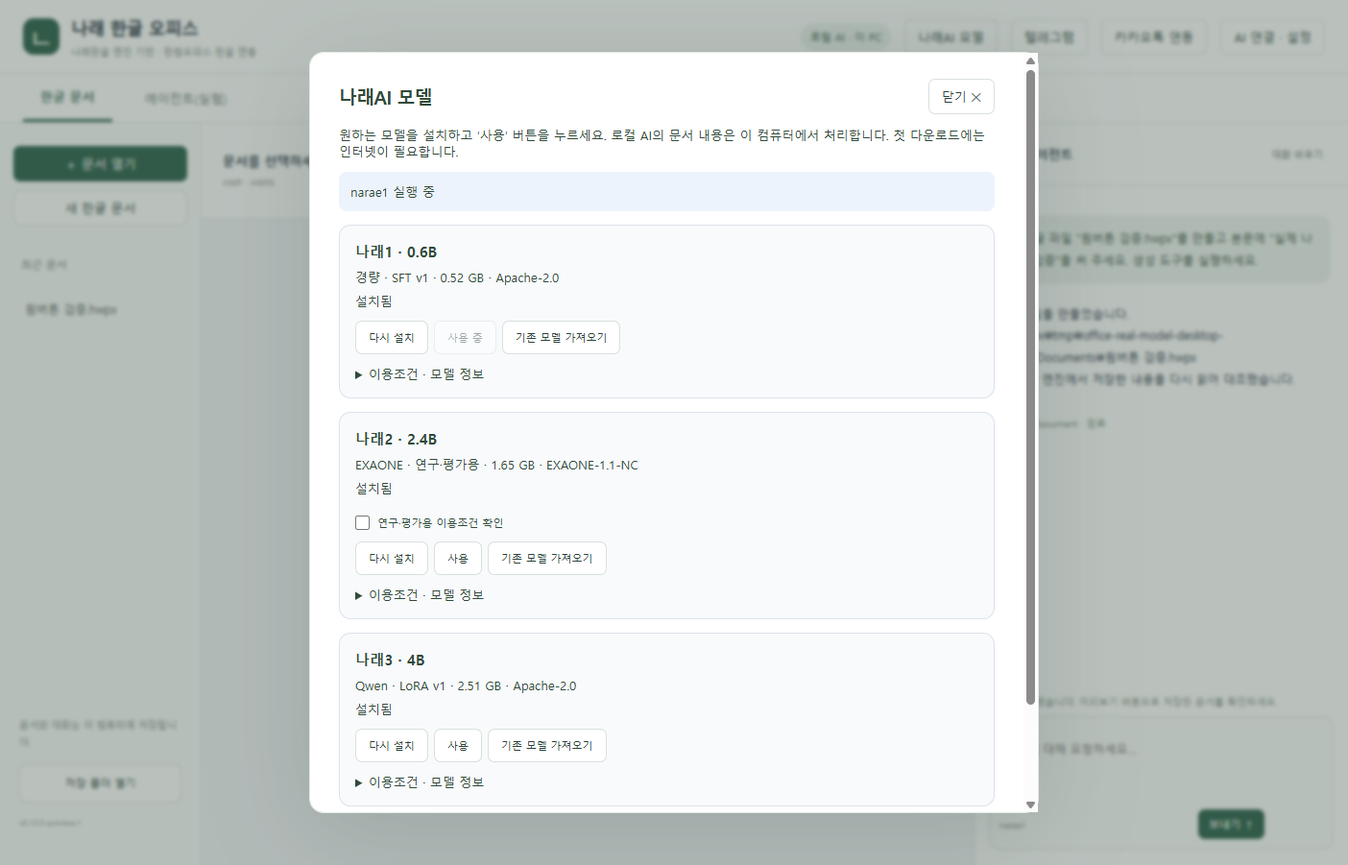
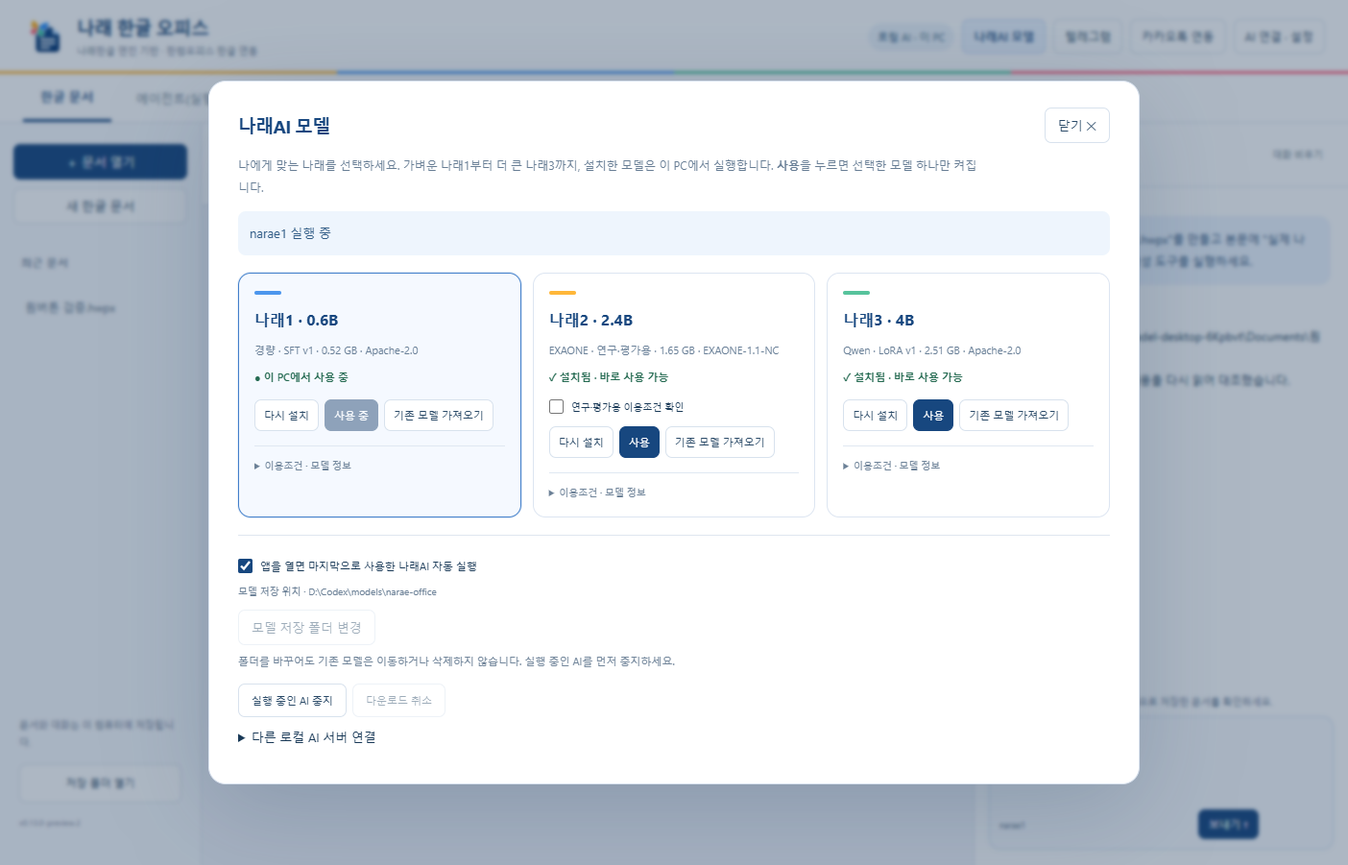
feat: apply Narae branding and persist local AI activation

diff --git a/ui/index.html b/ui/index.html
@@ -1,12 +1,12 @@
 <!doctype html>
 <html lang="ko"><head><meta charset="utf-8"><meta name="viewport" content="width=device-width,initial-scale=1"><meta http-equiv="Content-Security-Policy" content="default-src 'self'; img-src 'self' data:; style-src 'self'; script-src 'self'; connect-src 'none'; object-src 'none'; base-uri 'none'; form-action 'none'"><title>나래 한글 오피스</title><link rel="stylesheet" href="app.css"><link rel="stylesheet" href="local-ai.css"></head>
 <body>
-<header><div class="brand"><span class="logo">ㄴ</span><div><strong>나래 한글 오피스</strong><small>나래한글 엔진 기반 · 한컴오피스 한글 연동</small></div></div><div class="header-actions"><span id="connectionBadge" class="badge">로컬 작업 공간</span><button id="localAIButton">나래AI 모델</button><button id="telegramButton">텔레그램</button><button id="remoteButton">카카오톡 연동</button><button id="settingsButton">AI 연결 · 설정</button></div></header>
+<header><div class="brand"><img class="logo" src="assets/narae-office.png" alt="나래 한글 오피스 로고"><div><strong>나래 한글 오피스</strong><small>나래한글 엔진 기반 · 한컴오피스 한글 연동</small></div></div><div class="header-actions"><span id="connectionBadge" class="badge">로컬 작업 공간</span><button id="localAIButton">나래AI 모델</button><button id="telegramButton">텔레그램</button><button id="remoteButton">카카오톡 연동</button><button id="settingsButton">AI 연결 · 설정</button></div></header>
 <nav class="workspace-tabs" role="tablist" aria-label="작업 공간"><button id="documentTab" role="tab" aria-selected="true" aria-controls="documentWorkspace">한글 문서</button><button id="agentTab" role="tab" aria-selected="false" aria-controls="agentWorkspace" tabindex="-1">에이전트(실험)</button></nav>
 <main id="documentWorkspace" role="tabpanel" aria-labelledby="documentTab">
 <aside><button id="openFile" class="primary">＋ 문서 열기</button><button id="newDocument">새 한글 문서</button><h2>최근 문서</h2><div id="recent"></div><div class="aside-bottom"><span>문서와 대화는 이 컴퓨터에 저장됩니다.</span><button id="dataFolder">저장 폴더 열기</button><small id="version"></small></div></aside>
 <section class="document"><div class="document-toolbar"><div><strong id="documentName">문서를 선택하세요</strong><small id="documentPath">HWP · HWPX</small></div><div class="document-actions"><button id="nativeOpen" disabled>한글에서 열기</button><button id="readDocument" disabled>현재 내용</button><button id="refreshPreview" disabled>미리보기</button><button id="pdfExport" disabled>PDF 사본</button></div></div>
-<div id="documentView"><div class="welcome"><div class="welcome-mark">나래</div><h1>한글 문서 작업을 가볍게.</h1><p>기존 문서의 서식을 지키면서 내용을 다듬고,<br>나의 AI와 함께 새 문서를 작성하세요.</p><span>왼쪽의 문서 열기로 시작하세요.</span></div></div>
+<div id="documentView"><div class="welcome"><img class="welcome-mark" src="assets/narae-office.png" alt=""><span class="eyebrow">나의 문서, 나의 AI</span><h1>생각이 문서가 되는 공간.</h1><p>익숙한 한글 문서의 서식을 지키면서,<br>나래와 함께 읽고, 쓰고, 다듬으세요.</p><div class="welcome-actions"><button id="welcomeOpen"><span class="action-icon blue">↗</span><strong>문서 열기</strong><small>HWP · HWPX 이어서 작업</small></button><button id="welcomeNew"><span class="action-icon mint">＋</span><strong>새 문서</strong><small>빈 문서에서 시작하기</small></button><button id="welcomeModels"><span class="action-icon amber">✦</span><strong>나래AI</strong><small>이 PC에서 실행할 모델 선택</small></button></div><p class="welcome-note">문서와 대화는 이 컴퓨터에 보관합니다.</p></div></div>
 <div class="page-navigation" id="pageNavigation" hidden><button id="previousPage">이전</button><span id="pageNumber"></span><button id="nextPage">다음</button></div></section>
 <section class="chat"><div class="chat-header"><strong>문서 에이전트</strong><button id="clearHistory" class="text-button">대화 비우기</button></div><div id="messages"><div class="chat-intro"><span class="spark">✧</span><h2>어떻게 도와드릴까요?</h2><p>‘이 문서의 오탈자를 고쳐 줘’처럼<br>원하는 작업을 입력하세요.</p><small>AI 사용 시 선택한 문서 내용이 연결한 회사로 전송됩니다.</small></div></div><div id="status" role="status">준비됨</div><form id="chatForm"><textarea id="prompt" placeholder="문서에 대해 요청하세요…" rows="3" aria-label="AI 요청"></textarea><div class="composer-footer"><small id="activeModel">AI 연결 설정이 필요합니다</small><button id="stopButton" type="button" hidden>중지</button><button id="sendButton" type="submit" class="primary">보내기 ↑</button></div></form></section>
 </main>
@@ -20,6 +20,6 @@
 <label>모델<input id="model" list="modelOptions" autocomplete="off" placeholder="계정 모델을 불러오거나 모델 ID 입력"><datalist id="modelOptions"></datalist></label><button id="loadModels" type="button">모델 목록 새로고침</button><label class="check-label"><input id="autoSave" type="checkbox" checked>AI의 열린 한글 편집 후 자동 저장</label><p class="muted">계정 토큰과 API 키는 Windows 사용자 암호화 저장소에 보관합니다. 다른 PC에서는 계정을 다시 연결하세요.</p><div id="settingsStatus" role="status"></div><button type="submit" class="primary save-settings">설정 저장</button></form></dialog>
 <dialog id="createDialog"><form id="createForm"><div class="dialog-header"><h2>새 한글 문서</h2><button id="closeCreate" type="button" class="text-button">닫기 ✕</button></div><label>파일 이름<input id="newName" value="새 문서.hwpx" required></label><label>내용<textarea id="newText" rows="10" placeholder="작성할 내용을 입력하세요"></textarea></label><p class="muted">현재 작업 폴더에 나래한글 엔진으로 생성합니다.</p><button type="submit" class="primary">문서 만들기</button></form></dialog>
 <dialog id="remoteDialog" aria-labelledby="remoteTitle"><div class="dialog-header"><h2 id="remoteTitle">카카오톡 · 내 PC 연결</h2><button id="remoteClose" type="button">닫기 ✕</button></div><p class="muted">카톡의 업무 요청을 이 PC의 나래 오피스로 전달합니다. PC와 이 앱이 켜져 있어야 합니다. 한 계정에는 PC 한 대를 연결합니다.</p><div id="remoteStatus" role="status">연결 안 됨</div><form id="remotePairForm"><label>나래 중계 서버 주소<input id="remoteRelay" type="url" required placeholder="https://중계서버주소" autocomplete="off"></label><label>카톡에서 받은 내 UID<input id="remoteUid" required placeholder="카톡에서 ‘내 UID’를 보내 확인" autocomplete="off" spellcheck="false"></label><label>이 PC 이름<input id="remoteName" required maxlength="60" value="내 PC"></label><label class="check-label"><input id="remoteConsent" type="checkbox" required>이 카톡 사용자의 작업 폴더 읽기와 에이전트 대화 공유에 동의합니다.</label><p class="muted">요청과 답변, 처리한 문서 내용은 카카오·중계 서버와 선택한 AI를 통과할 수 있습니다. 학교 로그인·인증서·AI 계정 토큰은 이 PC에 둡니다. 작업 폴더 밖 접근·임의 명령 실행은 허용하지 않으며, 문서 변경·브라우저 조작·메시지 발송은 아래의 구체적인 PC 승인을 매번 요구합니다.</p><button id="remotePair" type="submit" class="primary">UID로 연결 요청</button></form><p id="remoteCode" class="info" hidden></p><div class="button-row"><button id="remoteRefresh" type="button">상태 새로고침</button><button id="remoteApprove" type="button" class="primary" hidden>이 카톡 사용자의 PC 연결 승인</button><button id="remoteCancel" type="button" hidden>원격 작업 중단</button><button id="remoteUnlink" type="button" hidden>PC 연결 해제</button></div><section id="remoteApproval" hidden><h3>카톡·PC 에이전트가 요청한 변경·조작</h3><p>아래 작업 한 건만 승인합니다. 거절·만료·중단하면 실행하지 않습니다.</p><pre id="remoteApprovalDetails"></pre><div class="button-row"><button id="remoteAllow" type="button" class="primary">이 변경 승인</button><button id="remoteDeny" type="button">변경 거절</button></div></section><p id="remoteNotice" role="status"></p></dialog>
-<link rel="stylesheet" href="remote.css"><link rel="stylesheet" href="agent.css"><script src="app.js"></script><script src="remote.js"></script><script src="agent.js"></script><dialog id="localAIDialog" aria-labelledby="localAITitle"><div class="dialog-header"><h2 id="localAITitle">나래AI 모델</h2><button id="localAIClose">닫기 ✕</button></div><p>원하는 모델을 설치하고 ‘사용’ 버튼을 누르세요. 로컬 AI의 문서 내용은 이 컴퓨터에서 처리합니다. 첫 다운로드에는 인터넷이 필요합니다.</p><p id="localAIStatus" role="status"></p><div id="localAICards"></div><div class="button-row"><button id="localAIStop">실행 중인 AI 중지</button><button id="localAICancel">다운로드 취소</button></div><details><summary>다른 로컬 AI 서버 연결</summary><p>Ollama·LM Studio 등에서 OpenAI 호환 서버를 실행한 뒤 연결하세요. JSON Schema 응답을 지원해야 합니다.</p><label>서버 주소<input id="localAIEndpoint" value="http://127.0.0.1:11434/v1" type="url"></label><label>모델 ID<input id="localAIExternalModel" placeholder="서버에 설치한 모델 이름"></label><button id="localAIExternal">연결 확인 · 사용</button></details><p id="localAIError" role="alert"></p></dialog>
+<link rel="stylesheet" href="remote.css"><link rel="stylesheet" href="agent.css"><script src="app.js"></script><script src="remote.js"></script><script src="agent.js"></script><dialog id="localAIDialog" aria-labelledby="localAITitle"><div class="dialog-header"><h2 id="localAITitle">나래AI 모델</h2><button id="localAIClose">닫기 ✕</button></div><p class="model-dialog-intro">나에게 맞는 나래를 선택하세요. 가벼운 나래1부터 더 큰 나래3까지, 설치한 모델은 이 PC에서 실행합니다. <b>사용</b>을 누르면 선택한 모델 하나만 켜집니다.</p><p id="localAIStatus" role="status"></p><div id="localAICards"></div><div class="local-storage"><label class="check-label"><input id="localAIAutoStart" type="checkbox">앱을 열면 마지막으로 사용한 나래AI 자동 실행</label><span class="path-label" id="localAIDirectory"></span><button id="localAIChooseDirectory">모델 저장 폴더 변경</button><p class="muted">폴더를 바꾸어도 기존 모델은 이동하거나 삭제하지 않습니다. 실행 중인 AI를 먼저 중지하세요.</p></div><div class="button-row"><button id="localAIStop">실행 중인 AI 중지</button><button id="localAICancel">다운로드 취소</button></div><details><summary>다른 로컬 AI 서버 연결</summary><p>Ollama·LM Studio 등에서 OpenAI 호환 서버를 실행한 뒤 연결하세요. JSON Schema 응답을 지원해야 합니다.</p><label>서버 주소<input id="localAIEndpoint" value="http://127.0.0.1:11434/v1" type="url"></label><label>모델 ID<input id="localAIExternalModel" placeholder="서버에 설치한 모델 이름"></label><button id="localAIExternal">연결 확인 · 사용</button></details><p id="localAIError" role="alert"></p></dialog>
 <dialog id="telegramDialog" aria-labelledby="telegramTitle"><div class="dialog-header"><h2 id="telegramTitle">텔레그램 · 내 PC 연결</h2><button id="telegramClose">닫기 ✕</button></div><p>BotFather에서 전용 봇을 만든 뒤 토큰을 등록하세요. 토큰은 이 Windows 사용자의 암호화 저장소에 보관합니다.</p><button id="telegramBotFather">BotFather 열기 ↗</button><label>봇 토큰<input id="telegramToken" type="password" autocomplete="off" placeholder="BotFather의 토큰"></label><button id="telegramConnect">봇 연결</button><p id="telegramStatus" role="status"></p><div class="button-row"><button id="telegramPair">내 계정 연결 링크 만들기</button><button id="telegramOpenPair">텔레그램에서 연결 ↗</button><button id="telegramUnlink">연결 해제</button></div><p>연결 링크는 10분간 유효하며 한 개인 채팅만 연결합니다. HWP·HWPX 첨부, /files, /get 파일명, /cancel을 사용할 수 있습니다. PC 앱이 켜져 있어야 하며 문서 변경·업무 처리는 PC에서 승인합니다.</p><section id="telegramApproval" hidden><h3>PC 작업 승인</h3><pre id="telegramApprovalDetails"></pre><div class="button-row"><button id="telegramAllow" class="primary">이 작업 승인</button><button id="telegramDeny">거절</button></div></section><p id="telegramError" role="alert"></p></dialog>
-<script src="local-ai.js"></script><script src="telegram.js"></script></body></html>
+<link rel="stylesheet" href="brand.css"><script src="local-ai.js"></script><script src="telegram.js"></script></body></html>

diff --git a/ui/brand.css b/ui/brand.css
@@ -1,0 +1,19 @@
+/* Narae: navy ink and four petals. Shared by document, agent and settings views. */
+:root{--accent:#17477f;--line:#dfe6ef;--ink:#193957;--muted:#64778b;--blue:#4c96ed;--mint:#57c39c;--amber:#ffb739;--coral:#ff6581;font-family:"Segoe UI","Malgun Gothic","맑은 고딕",sans-serif;color:var(--ink);background:#f4f7fb}
+button{border-color:#d8e2ed;color:#294967;transition:background .15s,border-color .15s,box-shadow .15s}
+button:hover{background:#edf4fd;border-color:#b9cee7}button:focus-visible,input:focus-visible,select:focus-visible,textarea:focus-visible,summary:focus-visible{outline:2px solid #347ad1;outline-offset:3px}
+.primary{background:var(--accent);border-color:var(--accent);color:#fff}.primary:hover{background:#103865;border-color:#103865}.text-button{color:var(--muted)}
+header{position:relative;padding:0 24px}header:after{content:"";position:absolute;bottom:-1px;left:0;right:0;height:3px;background:linear-gradient(90deg,var(--amber) 0 25%,var(--blue) 25% 50%,var(--mint) 50% 75%,var(--coral) 75%)}
+.brand{gap:10px;flex-shrink:0}.brand strong{font-size:19px;color:#123f72;letter-spacing:-.7px}.brand small{color:#6d8094;margin-top:4px;font-size:10px}
+.logo{width:46px;height:46px;object-fit:contain;display:block;background:transparent;border-radius:0}.header-actions{gap:8px;flex-wrap:nowrap}.header-actions button{padding:9px 11px;font-size:12px}#localAIButton{background:#edf4ff;border-color:#c5d9f5;color:#17477f;font-weight:600}.badge{color:#315d86;background:#eef4fb;max-width:240px;overflow:hidden;text-overflow:ellipsis}
+.workspace-tabs{gap:8px}.workspace-tabs button{color:#6b7e90}.workspace-tabs button[aria-selected=true]{color:var(--accent);border-color:var(--accent)}
+aside{background:#f8fafd;padding-top:22px}aside h2{color:#71859a;font-weight:600;letter-spacing:.5px}.recent-item{color:#526c85}.recent-item.active{background:#e6effb;color:#17477f}.aside-bottom{color:#708297}.aside-bottom span{line-height:1.8}
+.document-toolbar{min-height:86px}.document-toolbar small{color:#71859a}.document-actions button{color:#405e7b}.page-navigation span{color:#708297}#documentView{background:#f2f5fa}.paper{box-shadow:0 6px 30px #183b6517}
+.welcome{padding:clamp(30px,7vh,78px) 4px 25px;color:#64778b}.welcome-mark{width:108px;height:108px;object-fit:contain;display:block;background:transparent;border-radius:0;margin:0 auto 18px}.welcome .eyebrow{font-size:11px;font-weight:600;letter-spacing:2px;color:#6d88a6}.welcome h1{font-size:clamp(22px,2vw,29px);font-weight:650;color:#173e6c;letter-spacing:-1.2px;margin:12px 0 16px}.welcome p{font-size:13px;line-height:1.9}.welcome-actions{display:grid;grid-template-columns:repeat(3,minmax(0,1fr));gap:10px;max-width:580px;margin:30px auto 0}.welcome-actions button{padding:18px 10px;text-align:left;background:#fff;white-space:normal;border-color:#e0e8f2;border-radius:12px;box-shadow:0 3px 12px #173e6c05}.welcome-actions button:hover{border-color:#a4bfdf;box-shadow:0 5px 16px #173e6c0c}.welcome-actions strong,.welcome-actions small{display:block}.welcome-actions strong{font-size:13px;margin:12px 0 7px}.welcome-actions small{font-size:10px;color:#72859a;line-height:1.6}.action-icon{display:inline-grid;place-items:center;width:29px;height:29px;border-radius:9px;font-size:19px}.blue{background:#e7f1ff;color:#2875cb}.mint{background:#e6f6ee;color:#21835d}.amber{background:#fff4db;color:#a8690d}.welcome .welcome-note{margin-top:23px;font-size:10px;color:#76889b}
+.chat-header{color:#244e78}.chat-intro{color:#657c94}.chat-intro h2{color:#284f78;font-weight:600}.chat-intro small{color:#7d8da0}.spark{color:#5291da}.message.user{background:#edf4fd;color:#254d76}.tool-note{color:#607e9c;border-color:#b7d3f1}.message.error{color:#ae3e50}#status{color:#6b8198}#chatForm{background:#f9fbfe;border-color:#d4e1f1;box-shadow:0 2px 8px #193f6c04}.composer-footer small{color:#6c8197}#prompt{color:var(--ink)}
+dialog{color:var(--ink);border-color:#dce5f1;border-radius:18px;box-shadow:0 24px 100px #15365c33}dialog::backdrop{background:#14325359}dialog h2{color:#17477f}.dialog-header{gap:15px;margin-bottom:10px}.muted{color:#71859a}.info{background:#eff5fc;color:#3b628a}input,select,textarea{color:#284e72;border-color:#cfdaea;outline-color:#4d8bd4}.path-label,#keyStatus{color:#6c8197}.check-label input{accent-color:var(--accent)}
+.agent-sidebar h2{color:#244e78}.agent-sidebar p,.integration-list small{color:#657b92}.agent-conversation{background:#f2f5fa}.agent-empty{color:#6b8098}.agent-empty h2{color:#244e78}.agent-heading p,.agent-message small,#agentProgress,.agent-footnote,#agentForm .composer-footer small{color:#6a8097}.agent-bubble{border-color:#dce5f0}.agent-message.user .agent-bubble{background:#e7f0fc;border-color:#d3e2f6}#agentForm{border-color:#d4e1f1}.agent-heading h1 span{color:#98661c;background:#fff3da}
+#localAIDialog{width:min(970px,94vw)}#localAICards{display:grid;grid-template-columns:repeat(3,minmax(0,1fr));gap:12px;margin:18px 0}.model-card{padding:18px 16px;margin:0;background:#fff;border-color:#dce5f1;border-radius:13px;min-width:0;position:relative;overflow:hidden}.model-card:before{content:"";display:block;width:28px;height:4px;border-radius:4px;background:var(--blue);margin-bottom:15px}.model-card:nth-child(2):before{background:var(--amber)}.model-card:nth-child(3):before{background:var(--mint)}.model-card.is-active{border-color:#427fca;background:#f5f9ff;box-shadow:0 0 0 1px #427fca22}.model-card h3{font-size:16px;color:#17477f;margin-bottom:12px}.model-card p{font-size:11px;color:#677e96;line-height:1.85}.model-card .model-installed{font-weight:600;color:#246a51}.model-card .button-row{gap:6px}.model-card .button-row button{padding:8px 9px;font-size:11px}.model-card .check-label{font-size:10px;line-height:1.6;align-items:flex-start;margin:12px 0}.model-card .check-label input{flex-shrink:0}.model-card details{font-size:10px;color:#6c8197;border-top:1px solid #e0e8f2;padding-top:13px;margin-top:15px}.model-card summary{cursor:pointer}.model-card pre{font-size:10px}.local-storage{border-top:1px solid var(--line);padding-top:12px;margin-top:18px}.local-storage .path-label{margin:8px 0 12px}.local-storage label{margin:12px 0}.local-storage .muted{margin:7px 0}#localAIStatus,#telegramStatus{background:#eef5fd;color:#305b85;line-height:1.7}#localAIError,#telegramError{color:#b03b52}.model-dialog-intro{max-width:780px;font-size:12px;line-height:1.9;color:#687e95}
+@media(max-width:1150px){header{padding:0 18px}.header-actions{gap:5px}.header-actions button{padding:8px;font-size:11px}.header-actions .badge{font-size:10px;padding:6px;max-width:145px}.brand strong{font-size:17px}.brand small{font-size:9px}.logo{width:40px;height:40px}.welcome-actions{gap:7px}.welcome-actions button{padding:14px 10px}.welcome-mark{width:92px;height:92px}.welcome{padding-top:5vh}}
+@media(max-width:850px){#localAICards{grid-template-columns:1fr}.model-card .button-row{flex-wrap:wrap}}
+@media(prefers-reduced-motion:reduce){button{transition:none}}

diff --git a/ui/local-ai.js b/ui/local-ai.js
@@ -2,17 +2,19 @@
  const el=id=>document.getElementById(id),call=(name,args)=>window.narae.call(name,args);let current;
  async function action(fn){el('localAIError').textContent='';try{await fn();}catch(error){el('localAIError').textContent=error.message;}}
  function show(state){current=state;el('localAIStatus').textContent=state.progress?`${state.progress.id} · ${state.progress.key} 다운로드 ${Math.floor(state.progress.received/state.progress.total*100)}%`:state.busy?'AI를 준비하고 있습니다…':state.active?state.active+' 실행 중':'모델을 선택하세요.';el('localAIError').textContent=state.error||'';
-  const cards=el('localAICards');cards.replaceChildren();for(const m of state.models){const card=document.createElement('article');card.className='model-card';const title=document.createElement('h3');title.textContent=m.label+' · '+m.size;const note=document.createElement('p');note.textContent=m.note+' · '+(m.bytes/1e9).toFixed(2)+' GB · '+m.license;const summary=document.createElement('p');summary.textContent=m.installed?'설치됨':m.published?'허깅페이스에서 다운로드':'허깅페이스 배포 등록 대기 · 기존 모델은 가져올 수 있습니다.';card.append(title,note,summary);
+  el('localAIDirectory').textContent='모델 저장 위치 · '+state.directory;el('localAIAutoStart').checked=state.autoStart;el('localAIChooseDirectory').disabled=Boolean(state.busy||state.active);el('localAIStop').disabled=Boolean(state.busy)||!state.active;el('localAICancel').disabled=!state.progress;
+  const cards=el('localAICards');cards.replaceChildren();for(const m of state.models){const card=document.createElement('article');card.className='model-card'+(state.active===m.id?' is-active':'');const title=document.createElement('h3');title.textContent=m.label+' · '+m.size;const note=document.createElement('p');note.textContent=m.note+' · '+(m.bytes/1e9).toFixed(2)+' GB · '+m.license;const summary=document.createElement('p');summary.className=m.installed?'model-installed':'';summary.textContent=state.active===m.id?'● 이 PC에서 사용 중':m.installed?'✓ 설치됨 · 바로 사용 가능':m.published?'허깅페이스에서 다운로드':'허깅페이스 배포 등록 대기 · 기존 모델은 가져올 수 있습니다.';card.append(title,note,summary);
    const consent=document.createElement('label'),checkbox=document.createElement('input');checkbox.type='checkbox';consent.className='check-label';consent.append(checkbox,document.createTextNode('연구·평가용 이용조건 확인'));if(m.researchOnly)card.append(consent);
    const buttons=document.createElement('div');buttons.className='button-row';const add=(label,fn,disabled=false)=>{const button=document.createElement('button');button.textContent=label;button.disabled=disabled;button.onclick=()=>action(fn);buttons.append(button);};
    add(m.installed?'다시 설치':'설치',async()=>{if(m.researchOnly&&!checkbox.checked)throw new Error('나래2의 연구·평가용 이용조건을 확인하세요.');show(await call('localAIInstall',{id:m.id,researchAccepted:checkbox.checked}));},Boolean(state.busy)||!m.published);
-   add(state.active===m.id?'사용 중':'사용',async()=>{await call('localAIUse',{id:m.id});sync(await call('state'));show(await call('localAIState'));},Boolean(state.busy)||!m.installed||state.active===m.id);
+   add(state.active===m.id?'사용 중':'사용',async()=>{await call('localAIUse',{id:m.id});sync(await call('state'));show(await call('localAIState'));},Boolean(state.busy)||!m.installed||state.active===m.id);buttons.lastElementChild.className='primary';
    add('기존 모델 가져오기',async()=>{if(m.researchOnly&&!checkbox.checked)throw new Error('나래2의 연구·평가용 이용조건을 확인하세요.');show(await call('localAIImport',{id:m.id,researchAccepted:checkbox.checked}));},Boolean(state.busy));
    const details=document.createElement('details'),heading=document.createElement('summary'),license=document.createElement('pre');heading.textContent='이용조건 · 모델 정보';license.textContent=m.alias+'\n'+m.license;details.append(heading,license);details.ontoggle=()=>{if(details.open)call('localAILicense',{id:m.id}).then(text=>license.textContent=text).catch(error=>license.textContent=error.message);};card.append(buttons,details);cards.append(card);
   }
  }
  el('localAIButton').onclick=()=>action(async()=>{show(await call('localAIState'));const config=await call('state');el('localAIEndpoint').value=config.settings.provider==='local'?config.settings.endpoint:'http://127.0.0.1:11434/v1';el('localAIExternalModel').value=config.settings.localSource==='external'?config.settings.model:'';el('localAIDialog').showModal();});
  el('localAIClose').onclick=()=>el('localAIDialog').close();el('localAIStop').onclick=()=>action(async()=>show(await call('localAIStop')));el('localAICancel').onclick=()=>action(()=>call('localAICancel'));
+ el('localAIChooseDirectory').onclick=()=>action(async()=>show(await call('localAIDirectory')));el('localAIAutoStart').onchange=()=>action(async()=>show(await call('localAIAutoStart',{enabled:el('localAIAutoStart').checked})));
  el('localAIExternal').onclick=()=>action(async()=>{sync(await call('localAIExternal',{endpoint:el('localAIEndpoint').value,model:el('localAIExternalModel').value}));el('localAIStatus').textContent='외부 로컬 서버를 사용합니다.';});
  window.narae.onEvent(event=>{if(event.type==='localAI')show(event.localAI);});
 })();

diff --git a/ui/app.js b/ui/app.js
@@ -21,4 +21,5 @@ $('clearHistory').onclick=action(async()=>{sync(await call('clearHistory'));$('m
 $('chatForm').onsubmit=action(async event=>{event.preventDefault();if(running)return;const prompt=$('prompt').value.trim();if(!prompt)return;running=true;message('user',prompt);assistant=message('assistant','');$('prompt').value='';$('sendButton').disabled=true;$('stopButton').hidden=false;try{await call('send',{prompt,path:current?.path});}catch(error){message('error',error.message);status(error.message);}finally{running=false;$('sendButton').disabled=false;$('stopButton').hidden=true;sync(await call('state'));}});
 $('prompt').onkeydown=event=>{if(event.key==='Enter'&&(event.ctrlKey||event.metaKey)){$('chatForm').requestSubmit();event.preventDefault();}};
 window.narae.onEvent(event=>{if(event.scope==='agent')return;if(event.type==='status')status(event.text);if(event.type==='text'&&assistant){assistant.textContent+=(assistant.textContent?'\n':'')+event.text;assistant.scrollIntoView({block:'end'});}if(event.type==='tool'){const item=document.createElement('div');item.className='tool-note';item.dataset.tool=event.name;item.dataset.running='true';item.textContent=event.name+' · 실행 중';$('messages').append(item);item.scrollIntoView({block:'end'});}if(event.type==='toolDone'){const item=[...document.querySelectorAll('.tool-note')].reverse().find(item=>item.dataset.tool===event.name&&item.dataset.running==='true');if(item){item.dataset.running='false';item.textContent=event.name+' · 완료';}}if(event.type==='error'){for(const item of document.querySelectorAll('.tool-note[data-running="true"]')){item.dataset.running='false';item.textContent=item.dataset.tool+' · 오류';}message('error',event.text);}if(event.type==='done')status('작업을 마쳤습니다. 미리보기 버튼으로 저장한 문서를 확인하세요.');});
+for(const [source,target] of [['welcomeOpen','openFile'],['welcomeNew','newDocument'],['welcomeModels','localAIButton']])$(source).onclick=()=>$(target).click();
 call('state').then(value=>{sync(value);for(const item of value.history)message(item.role,item.content);}).catch(report);

diff --git a/docs/브랜드.md b/docs/브랜드.md
@@ -1,0 +1,20 @@
+# 나래 브랜드와 오피스 로고
+
+사용자가 2026-10-29 제공한 나래 기본 로고를 원본 그대로 보관합니다.
+
+<img src="../ui/assets/narae-original.png" width="240" alt="나래 기본 로고">
+<img src="../ui/assets/narae-office.png" width="200" alt="나래 한글 오피스 로고">
+
+- 기본 로고: `ui/assets/narae-original.png` — 제공된 PNG의 바이트를 그대로 복사했습니다.
+- 오피스 로고: `ui/assets/narae-office.png` — 남색 문서와 네 색 꽃잎으로 구별되는 오피스용 심볼입니다. 실제 알파 채널을 가진 PNG입니다.
+- Windows 아이콘: `ui/assets/narae-office.ico` — 생성된 PNG를 16·24·32·48·64·128·256px ICO 형식으로 변환했습니다.
+- 적용: 앱 헤더, 문서 시작 화면, Windows 창·작업 표시줄, 바탕화면·시작 메뉴 바로가기.
+- UI: 남색을 주색으로 쓰고 파랑·민트·노랑·코랄을 보조 색으로 사용합니다. 글자는 UI에서 렌더링합니다.
+
+## 제작 기록
+
+내장 `image_gen` 도구를 사용했습니다. CLI/API 대체 경로는 사용하지 않았습니다. 기본 로고는 스타일 참조로만 전달하고 수정하지 않았습니다. 아래 프롬프트로 오피스용 심볼을 생성한 뒤 실제 투명도를 확인했습니다.
+
+```text
+Use case: logo-brand. Create one polished production app icon for the Korean desktop writing application '나래 한글 오피스', a sibling of the Narae brand in the reference image. The reference is brand style guidance, not an edit target: leave the original untouched. Use its recognizable four soft rounded pinwheel petals (amber upper left, sky blue upper right, mint lower right, coral lower left) and deep navy blue. Combine the four-petal mark with a friendly rounded deep navy document/page symbol: a single page with subtly folded corner, two or three clean white horizontal writing lines, petals near its upper left corner. Bold simple silhouette, balanced optical weight, precise vector-like edges, very legible at 32 pixels. One isolated square composition centered with modest padding. The page and petals together should form a unique coherent office logo, not a screenshot or mockup. Flat saturated colors with extremely subtle tonal gradients as in the supplied logo. Actual transparent background. No letters, no typography, no wordmark, no watermark, no surrounding tile, no drop shadow, no 3D, no extra symbols.
+```

diff --git a/docs/텔레그램과-나래AI.md b/docs/텔레그램과-나래AI.md
@@ -14,7 +14,9 @@
 
 실제 학습 가중치와 어댑터이며 프롬프트 프로필이 아닙니다. 나래2는 [EXAONE 이용조건](https://huggingface.co/LGAI-EXAONE/EXAONE-3.5-2.4B-Instruct/blob/main/LICENSE)을 먼저 확인합니다. 모델 크기 외에도 실행 메모리와 임시 디스크 공간이 필요합니다. 세 모델은 실험용이며 복잡한 업무의 자율 완수나 모든 문서의 정확성을 보장하지 않습니다. 같은 도구를 반복하는 응답과 잘린 응답을 완료로 처리하지 않습니다.
 
-모델은 앱 데이터 폴더의 `models`에 저장합니다. `NARAE_AI_MODELS`로 모델 폴더를 지정할 수 있습니다. 나래교무에서 받은 모델은 **기존 모델 가져오기**로 `base.gguf`·`adapter.gguf`가 있는 폴더를 선택합니다. 원본을 그대로 두고 복사하며 등록된 크기·SHA256과 일치해야 합니다.
+모델은 앱 데이터 폴더의 `models`에 저장합니다. 모델 화면의 **모델 저장 폴더 변경**으로 다른 드라이브의 폴더를 선택할 수 있으며, 선택한 위치는 다음 실행에도 유지합니다. 기존 파일은 자동 이동·삭제하지 않습니다. 개발·검증용 `NARAE_AI_MODELS` 환경변수가 있으면 그 위치를 우선합니다.
+
+**사용**으로 선택한 모델과 자동 실행 설정을 기억합니다. 다음에 앱을 열면 마지막으로 선택한 로컬 모델을 준비합니다. 자동 실행 체크를 끄거나 **실행 중인 AI 중지**를 누르면 다음 실행에 자동으로 켜지지 않습니다. 다른 모델을 다시 **사용**하면 자동 실행이 켜집니다. 모델 로딩 중 들어온 같은 모델의 요청은 로딩을 함께 기다립니다. 나래교무에서 받은 모델은 **기존 모델 가져오기**로 `base.gguf`·`adapter.gguf`가 있는 폴더를 선택합니다. 원본을 그대로 두고 복사하며 등록된 크기·SHA256과 일치해야 합니다.
 
 **다른 로컬 AI 서버 연결**에서는 Ollama·LM Studio 등 OpenAI 호환 서버의 `/v1` 주소와 모델 ID를 입력합니다. 이 컴퓨터의 loopback HTTP 주소만 허용하며 JSON Schema 형식의 Chat Completions를 지원해야 합니다. 선택한 AI는 도구를 결정하고 실제 문서 작업은 기존 나래한글 엔진이 수행합니다.
 

diff --git a/README.md b/README.md
@@ -1,5 +1,7 @@
 # 나래 한글 오피스
 
+<img src="ui/assets/narae-office.png" width="96" alt="나래 한글 오피스 로고">
+
 **나래한글 엔진 기반 · 한컴오피스 한글 연동 · 로컬 문서 작업 공간**
 
 [나래한글 엔진](https://github.com/y5496694/narae_hangul)을 사용하는 Windows용 HWP/HWPX 문서 앱입니다. 기존 한글 문서를 읽고 본문·글자·문단 서식을 AI로 편집하거나, 새 문서·표·그림을 작성하고 PDF 사본을 만들 수 있습니다. 문서와 대화는 내 컴퓨터에 저장합니다. 앱 자체 로그인은 필요 없습니다.
@@ -9,7 +11,7 @@
 ## 설치
 
 1. Windows 10/11 x64에 **한컴오피스 한글이 먼저 설치되어 있어야 합니다.** 한 번 직접 실행해 초기 설정을 마칩니다. 한컴 프로그램·라이선스·글꼴은 이 저장소에 포함하지 않습니다.
-2. 텔레그램·로컬 AI가 포함된 [0.13.0-preview.1 릴리스](https://github.com/y5496694/Narae_hangul_office/releases/tag/v0.13.0-preview.1)의 `Narae-Hangul-Office-0.13.0-preview.1-windows-x64.zip`을 내려받아 압축을 풉니다. 또는 이 저장소의 Code → Download ZIP을 사용합니다.
+2. 텔레그램·로컬 AI가 포함된 [0.13.0-preview.2 릴리스](https://github.com/y5496694/Narae_hangul_office/releases/tag/v0.13.0-preview.2)의 `Narae-Hangul-Office-0.13.0-preview.2-windows-x64.zip`을 내려받아 압축을 풉니다. 또는 이 저장소의 Code → Download ZIP을 사용합니다.
 3. 폴더 안의 **`설치.cmd`를 한 번 실행**합니다. Node.js·Python·Electron·엔진 라이브러리·공식 Claude 로그인 도구·로컬 AI CPU 실행기를 앱 전용 폴더에 자동 설치합니다. **Node.js나 Python을 따로 설치할 필요가 없습니다.** 첫 설치에는 인터넷이 필요하며 관리자 권한은 필요 없습니다.
 4. 바탕화면의 **나래 한글 오피스**를 실행합니다.
 

diff --git a/docs/검증결과.md b/docs/검증결과.md
@@ -1,3 +1,15 @@
+# 0.13.0-preview.2 · 로컬 설치와 나래 브랜드
+
+2026-10-29 · Windows x64
+
+- 단위·회귀 검사 54/54 통과. 저장 폴더·자동 실행의 재시작 보존과 같은 모델 시작 요청의 중복 실행 방지를 포함합니다.
+- 실제 Electron에서 나래1로 HWPX를 생성한 후 독립 CLI로 파일 이름과 본문을 재확인했습니다.
+- 실제 나래2·나래3·나래1 순서로 사용 버튼을 전환하고 매번 가중치 SHA256·모델 이름·적용된 학습 어댑터를 확인했습니다.
+- 환경변수 없이 앱을 다시 실행해 영구 모델 폴더와 나래1 자동 활성화가 복원되는 것을 확인했습니다.
+- 텔레그램 데스크톱 5개, 카카오톡 데스크톱 13개 시나리오를 통과했습니다. 외부 통신은 모의 전송을 사용했고 실제 사용자 메시지는 보내지 않았습니다.
+- 1420px 화면과 최소 1000px 너비에서 새 로고·설정·문서·에이전트 레이아웃 및 가로 넘침이 없는 것을 확인했습니다.
+- 기본 로고는 제공한 원본과 SHA256이 일치하며 오피스 PNG의 실제 알파 채널, 16~256px Windows 아이콘을 확인했습니다.
+
 # 0.13.0-preview.1 · 텔레그램·로컬 AI
 
 2026-10-29 · Windows x64 · Node 24.22.1 · Python 3.13.17 · 공식 llama.cpp b11669 CPU

diff --git a/docs/릴리스노트.md b/docs/릴리스노트.md
@@ -1,3 +1,10 @@
+# 나래 한글 오피스 0.13.0-preview.2
+
+- 나래의 기본 로고를 보관하고, 네 색 꽃잎과 남색 문서를 결합한 오피스 전용 로고를 헤더·시작 화면·Windows 아이콘에 적용했습니다.
+- 남색 중심의 문서·에이전트·설정 UI, 세 모델 비교 카드와 시작 화면의 빠른 작업을 제공합니다.
+- 로컬 모델 저장 폴더와 마지막 선택을 기억하며, 다음 실행에 모델을 자동 준비할 수 있습니다. 중지하면 다음 실행의 자동 시작도 해제합니다.
+- 모델 시작 중 같은 모델을 요청해도 서버를 중복 실행하지 않습니다.
+
 # 나래 한글 오피스 0.13.0-preview.1
 
 - 텔레그램 전용 봇을 PC와 연결합니다. 한 개인 채팅의 요청·HWP/HWPX 첨부·문서 결과 전송·작업 중지·대화 기록을 지원하며 변경은 기존 PC 승인 절차를 사용합니다.
